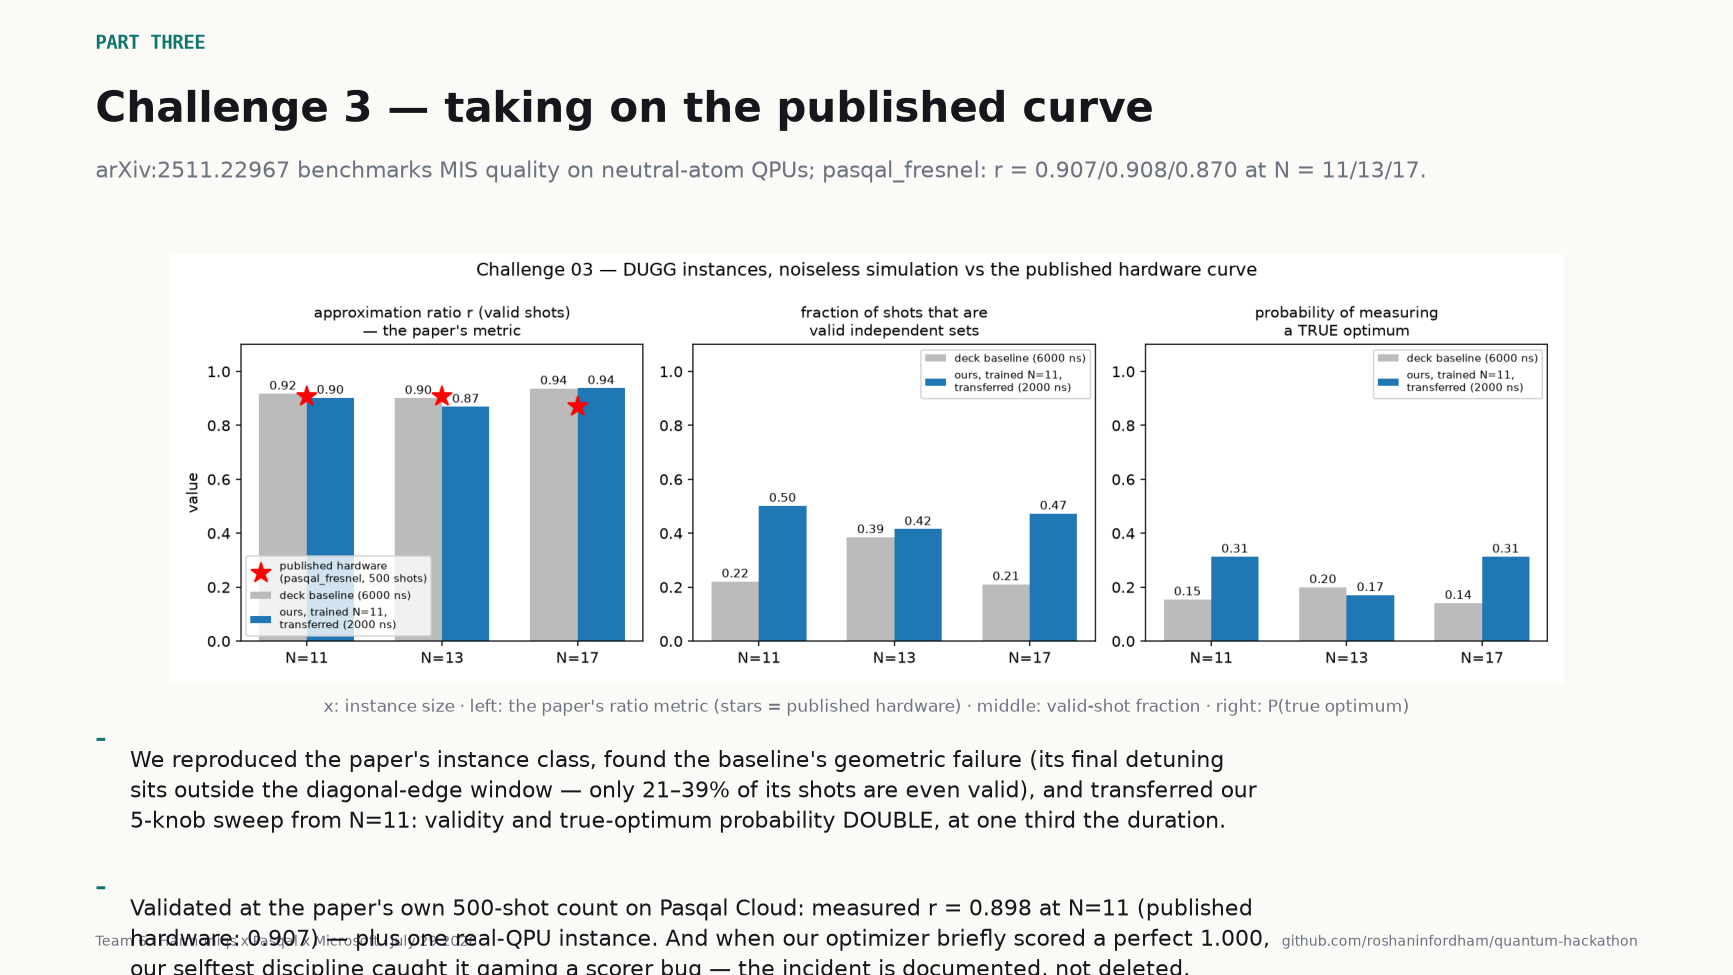
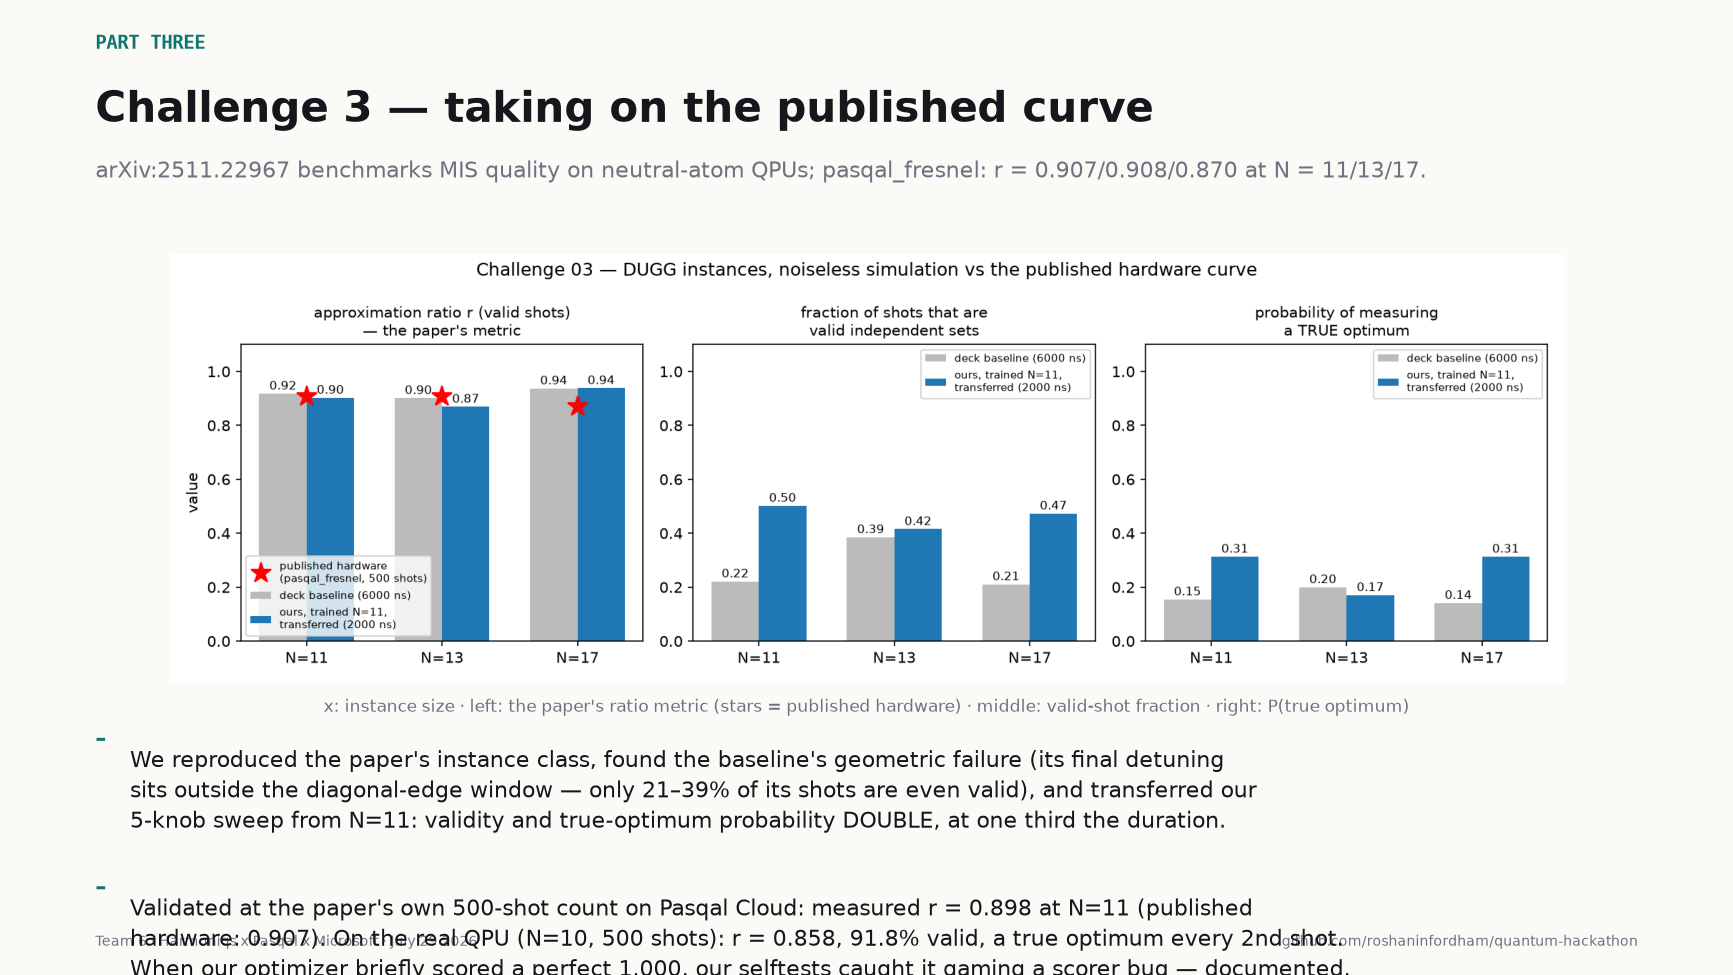
docs: ch03 slide carries the measured real-QPU numbers

Changed region(s): [[0.0623, 0.9538, 0.779, 1.0]]

diff --git a/make_slides_hackathon.py b/make_slides_hackathon.py
@@ -450,7 +450,7 @@ image_panel(fig, "ch03/fig_ch03_results.png", [0.04, 0.30, 0.92, 0.44],
             "x: instance size · left: the paper's ratio metric (stars = published hardware) · middle: valid-shot fraction · right: P(true optimum)")
 lines(fig, [
     "We reproduced the paper's instance class, found the baseline's geometric failure (its final detuning\nsits outside the diagonal-edge window — only 21–39% of its shots are even valid), and transferred our\n5-knob sweep from N=11: validity and true-optimum probability DOUBLE, at one third the duration.",
-    "Validated at the paper's own 500-shot count on Pasqal Cloud: measured r = 0.898 at N=11 (published\nhardware: 0.907) — plus one real-QPU instance. And when our optimizer briefly scored a perfect 1.000,\nour selftest discipline caught it gaming a scorer bug — the incident is documented, not deleted.",
+    "Validated at the paper's own 500-shot count on Pasqal Cloud: measured r = 0.898 at N=11 (published\nhardware: 0.907). On the real QPU (N=10, 500 shots): r = 0.858, 91.8% valid, a true optimum every 2nd shot.\nWhen our optimizer briefly scored a perfect 1.000, our selftests caught it gaming a scorer bug — documented.",
 ], y=0.235, dy=0.085, fs=12)
 save(fig)
 
